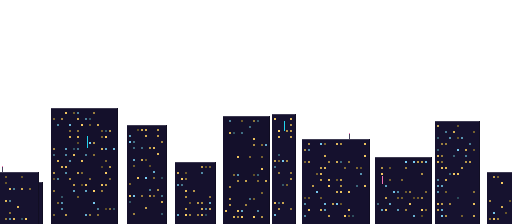
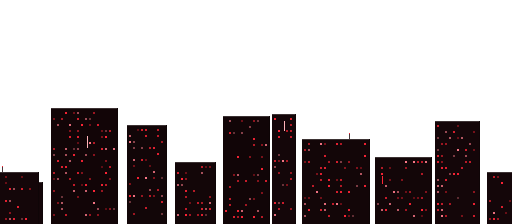
feat(theme): dark + neon-red theme across the whole game
The UI/HUD and world were blue/cyan. Now dark + neon red to match the hero:
- HUD HP bar, weapon-energy bar -> red gradient (was cyan/amber)
- Charge glow, muzzle, teleport halo, checkpoint burst, boss speech -> red
- All menu glows (title/select/companion/pause/boot) cyan -> neon red
- Stage accents: neon-city (cyan) & frost-lab (blue) -> red
- Companion ORION tint cyan -> red
- Tileset: ground/platform recolored dark metal with neon-red rivets/edge
- Stage backgrounds: neon-city & frost-lab -> dark night city with red neon
  (windows/signs red). Other stages keep their own palettes.
Regenerated assets via npm run assets.

diff --git a/src/scenes/GameScene.ts b/src/scenes/GameScene.ts
@@ -517,7 +517,7 @@ export class GameScene extends Phaser.Scene {
     this.hpBar.fillStyle(0x1a2030, 1).fillRoundedRect(x, y, w, h, 3)
     if (frac > 0) {
       const fw = Math.max(10, w * frac)
-      this.hpBar.fillGradientStyle(0x8df2ff, 0x35e0ff, 0x2b6bcb, 0x1d3f8f, 1)
+      this.hpBar.fillGradientStyle(0xff8a94, 0xff2436, 0xa11024, 0x6e0f16, 1)
       this.hpBar.fillRoundedRect(x, y, fw, h, 4)
       this.hpBar.fillStyle(0xffffff, 0.28).fillRoundedRect(x + 1, y + 1, Math.max(2, fw - 2), 2, 1)
     }
@@ -534,7 +534,7 @@ export class GameScene extends Phaser.Scene {
     this.weBar.fillStyle(0x0a0d16, 0.75).fillRoundedRect(x - 2, y - 2, w + 4, h + 4, 3)
     this.weBar.fillStyle(0x1a2030, 1).fillRect(x, y, w, h)
     if (frac > 0) {
-      this.weBar.fillGradientStyle(0xffc857, 0xff9a3c, 0xb87808, 0x8a5a06, 1)
+      this.weBar.fillGradientStyle(0xff8a94, 0xff2436, 0xa11024, 0x6e0f16, 1)
       this.weBar.fillRect(x, y, Math.max(2, w * frac), h)
     }
     this.weBar.fillStyle(0x0a0d16, 0.5)
@@ -598,7 +598,7 @@ export class GameScene extends Phaser.Scene {
   /** One-frame muzzle flash at the buster tip. */
   spawnMuzzleFlash(x: number, y: number, scale = 0.1, flame = false) {
     const halo = this.add.image(x, y, 'glow')
-      .setTint(flame ? 0xffb37a : 0x9df2ff).setBlendMode(Phaser.BlendModes.ADD).setScale(scale).setDepth(50)
+      .setTint(flame ? 0xffb37a : 0xffb3b8).setBlendMode(Phaser.BlendModes.ADD).setScale(scale).setDepth(50)
     const core = this.add.circle(x, y, 1.5 + scale * 8, 0xffffff).setBlendMode(Phaser.BlendModes.ADD).setDepth(51)
     this.tweens.add({
       targets: [halo, core], alpha: 0, scale: 1.9, duration: 80,
@@ -612,7 +612,7 @@ export class GameScene extends Phaser.Scene {
     // se lisait comme une barre cyan/verte sur le héros).
     const beam = this.add.image(x, y, 'glow')
       .setBlendMode(Phaser.BlendModes.ADD).setDepth(38)
-      .setTint(0x9df2ff).setScale(0.85, 1.5).setAlpha(0)
+      .setTint(0xffb3b8).setScale(0.85, 1.5).setAlpha(0)
     this.tweens.add({
       targets: beam, alpha: { from: 0.45, to: 0 }, scale: 1.3, duration: 380,
       ease: 'Cubic.Out', onComplete: () => beam.destroy(),
@@ -624,7 +624,7 @@ export class GameScene extends Phaser.Scene {
       angle: { min: 250, max: 290 },
       scale: { start: 0.09, end: 0 },
       lifespan: 540,
-      tint: [0x9df2ff, 0xffffff, 0x35e0ff],
+      tint: [0xffb3b8, 0xffffff, 0xff2436],
       blendMode: Phaser.BlendModes.ADD,
       emitting: false,
     })
@@ -632,7 +632,7 @@ export class GameScene extends Phaser.Scene {
     this.time.delayedCall(620, () => p.destroy())
 
     // Onde d'apparition circulaire.
-    const ring = this.add.circle(x, y, 4).setStrokeStyle(2, 0x9df2ff, 1)
+    const ring = this.add.circle(x, y, 4).setStrokeStyle(2, 0xffb3b8, 1)
     this.tweens.add({
       targets: ring, radius: 32, alpha: 0, duration: 400,
       ease: 'Cubic.Out', onComplete: () => ring.destroy(),
@@ -756,9 +756,9 @@ export class GameScene extends Phaser.Scene {
   private showAllTargetsDown() {
     const { width } = this.cameras.main
     const t = this.add.text(width / 2, 76, 'ALL TARGETS DOWN', {
-      fontSize: '10px', color: '#9df2ff', fontFamily: 'monospace', fontStyle: 'bold', letterSpacing: 2,
+      fontSize: '10px', color: '#ffb3b8', fontFamily: 'monospace', fontStyle: 'bold', letterSpacing: 2,
     }).setOrigin(0.5).setScrollFactor(0).setDepth(300).setAlpha(0)
-    t.setShadow(0, 0, '#35e0ff', 6, true, true)
+    t.setShadow(0, 0, '#ff2436', 6, true, true)
     this.tweens.add({ targets: t, alpha: 1, duration: 350, yoyo: true, hold: 900,
       onComplete: () => t.destroy() })
   }
@@ -802,9 +802,9 @@ export class GameScene extends Phaser.Scene {
           img.setTint(0x7dfca2)
           sfx.checkpoint()
           void this.companionSay('checkpoint')
-          this.spawnCollectBurst(x, y - 8, 0x35e0ff)
+          this.spawnCollectBurst(x, y - 8, 0xff2436)
           const t = this.add.text(x, y - 34, 'CHECKPOINT', {
-            fontSize: '8px', color: '#9df2ff', fontFamily: 'monospace', fontStyle: 'bold', letterSpacing: 1,
+            fontSize: '8px', color: '#ffb3b8', fontFamily: 'monospace', fontStyle: 'bold', letterSpacing: 1,
           }).setOrigin(0.5).setDepth(120).setAlpha(0)
           this.tweens.add({ targets: t, alpha: 1, y: y - 40, duration: 500, ease: 'Cubic.Out',
             onComplete: () => this.tweens.add({ targets: t, alpha: 0, delay: 900, duration: 400, onComplete: () => t.destroy() }) })
@@ -935,7 +935,7 @@ export class GameScene extends Phaser.Scene {
     const strip = this.add.rectangle(width / 2, height - 22, width, 34, 0x05060c, 0)
       .setScrollFactor(0).setDepth(240)
     const t1 = this.add.text(width / 2, height - 32, `MISSION 01 — ${this.stage.name}`, {
-      fontSize: '8px', color: '#9df2ff', fontFamily: 'monospace', fontStyle: 'bold', letterSpacing: 1,
+      fontSize: '8px', color: '#ffb3b8', fontFamily: 'monospace', fontStyle: 'bold', letterSpacing: 1,
     }).setOrigin(0.5).setScrollFactor(0).setDepth(241).setAlpha(0)
     const t2 = this.add.text(width / 2, height - 18, 'Libérez le secteur. Détruisez le WAR MACHINE.', {
       fontSize: '8px', color: '#e2e8f0', fontFamily: 'monospace',
@@ -984,7 +984,7 @@ export class GameScene extends Phaser.Scene {
     const box = this.add.rectangle(96, height - 26, 168, 30, 0x06101c, 0.88)
       .setStrokeStyle(1.5, this.compData.bubble, 0.85)
     const tag = this.add.text(20, height - 46, this.compData.name, {
-      fontSize: '6px', color: '#9df2ff', fontFamily: 'monospace', fontStyle: 'bold', letterSpacing: 1,
+      fontSize: '6px', color: '#ffb3b8', fontFamily: 'monospace', fontStyle: 'bold', letterSpacing: 1,
     })
     const msg = this.add.text(96, height - 24, '', {
       fontSize: '8px', color: '#d5ecf8', fontFamily: 'monospace',

diff --git a/src/scenes/PauseScene.ts b/src/scenes/PauseScene.ts
@@ -39,9 +39,9 @@ export class PauseScene extends Phaser.Scene {
       .setStrokeStyle(1.5, 0x3a4358, 1).setDepth(1)
 
     const title = this.add.text(width / 2, height / 2 - 60, 'PAUSE', {
-      fontSize: '16px', color: '#9df2ff', fontFamily: 'monospace', fontStyle: 'bold', letterSpacing: 4,
+      fontSize: '16px', color: '#ffb3b8', fontFamily: 'monospace', fontStyle: 'bold', letterSpacing: 4,
     }).setOrigin(0.5).setDepth(2)
-    title.setShadow(0, 0, '#35e0ff', 8, true, true)
+    title.setShadow(0, 0, '#ff2436', 8, true, true)
 
     this.add.text(width / 2 - 84, height / 2 - 34, 'ARMES', {
       fontSize: '7px', color: '#5a6280', fontFamily: 'monospace', letterSpacing: 2,
@@ -91,14 +91,14 @@ export class PauseScene extends Phaser.Scene {
     // REPRENDRE : cliquable/tappable (et raccourcis clavier inchangés).
     const resumeText = this.add.text(width / 2, height / 2 + 62,
       isTouchUI() ? '▶ REPRENDRE   (◀▶ ARME · A/B ÉQUIPER · ⏸)' : '↑↓ : ARME     Z : ÉQUIPER     P : REPRENDRE', {
-      fontSize: '8px', color: isTouchUI() ? '#9df2ff' : '#5a6280',
+      fontSize: '8px', color: isTouchUI() ? '#ffb3b8' : '#5a6280',
       fontFamily: 'monospace', backgroundColor: isTouchUI() ? '#10141f' : undefined,
       padding: isTouchUI() ? { x: 6, y: 3 } : {},
     }).setOrigin(0.5).setDepth(2)
     resumeText.setInteractive({ useHandCursor: true })
     resumeText.on('pointerdown', () => this.doResume())
 
-    this.cursor = this.add.triangle(width / 2 - 72, height / 2 - 14, 0, 3, 0, 9, 7, 6, 0x9df2ff).setDepth(2)
+    this.cursor = this.add.triangle(width / 2 - 72, height / 2 - 14, 0, 3, 0, 9, 7, 6, 0xffb3b8).setDepth(2)
 
     const resume = () => this.doResume()
     this.input.keyboard!.on('keydown-P', resume)

diff --git a/src/scenes/StageSelectScene.ts b/src/scenes/StageSelectScene.ts
@@ -47,7 +47,7 @@ export class StageSelectScene extends Phaser.Scene {
       fontSize: '14px', color: '#e2e8f0', fontFamily: 'monospace', fontStyle: 'bold', letterSpacing: 6,
     }).setOrigin(0.5)
     header.setStroke('#0a0512', 3)
-    header.setShadow(0, 0, '#35e0ff', 6, true, true)
+    header.setShadow(0, 0, '#ff2436', 6, true, true)
 
     // Layout cards in one row, centered
     const total = STAGES.length
@@ -91,7 +91,7 @@ export class StageSelectScene extends Phaser.Scene {
     this.nameText = this.add.text(width / 2, height * 0.72, STAGES[this.selected].name, {
       fontSize: '11px', color: '#e2e8f0', fontFamily: 'monospace', fontStyle: 'bold', letterSpacing: 6,
     }).setOrigin(0.5)
-    this.nameText.setShadow(0, 0, '#35e0ff', 6, true, true)
+    this.nameText.setShadow(0, 0, '#ff2436', 6, true, true)
 
     this.descText = this.add.text(width / 2, height * 0.72 + 16, '', {
       fontSize: '8px', color: '#8b93a8', fontFamily: 'monospace', fontStyle: 'italic',

diff --git a/src/scenes/TitleScene.ts b/src/scenes/TitleScene.ts
@@ -35,7 +35,7 @@ export class TitleScene extends Phaser.Scene {
       fontStyle: 'bold',
     }).setOrigin(0.5)
     title.setStroke('#0a0512', 4)
-    title.setShadow(0, 0, '#35e0ff', 10, true, true)
+    title.setShadow(0, 0, '#ff2436', 10, true, true)
     this.tweens.add({
       targets: title,
       alpha: { from: 0, to: 1 },
@@ -58,7 +58,7 @@ export class TitleScene extends Phaser.Scene {
       fontFamily: 'monospace',
       letterSpacing: 3,
     }).setOrigin(0.5)
-    prompt.setShadow(0, 0, '#35e0ff', 5, true, true)
+    prompt.setShadow(0, 0, '#ff2436', 5, true, true)
     this.tweens.add({ targets: prompt, alpha: { from: 1, to: 0.15 }, duration: 700, yoyo: true, repeat: -1 })
     void subtitle
 

diff --git a/src/entities/Player.ts b/src/entities/Player.ts
@@ -239,10 +239,10 @@ export class Player extends Phaser.Physics.Arcade.Sprite {
     if (level >= 2) {
       const cycle = this.powerUp
         ? [0xff6b5e, 0xffd166, 0xffffff]
-        : [0xffffff, 0xffd166, 0x66f0ff]
+        : [0xffffff, 0xffd166, 0xff6b5e]
       tint = cycle[Math.floor(this.scene.time.now / 90) % 3]
     } else {
-      tint = level === 1 ? 0x66f0ff : 0x35e0ff
+      tint = level === 1 ? 0xff6b5e : 0xff2436
     }
     this.chargeGlow.setTint(tint)
     this.chargeHalo.setTint(tint)

diff --git a/src/stages.ts b/src/stages.ts
@@ -17,7 +17,7 @@ export const STAGES: StageDef[] = [
     name: 'NEON CITY',
     skyTop: 0x2b1e4e, skyBottom: 0x0d0e15,
     farColor: 0x241d3f, midColor: 0x191530,
-    accent: 0x34d2ee,
+    accent: 0xff2436,
   },
   {
     id: 'toxic-plant',
@@ -38,7 +38,7 @@ export const STAGES: StageDef[] = [
     name: 'FROST LAB',
     skyTop: 0x14325e, skyBottom: 0x071222,
     farColor: 0x102540, midColor: 0x0a1a2e,
-    accent: 0x93c5fd,
+    accent: 0xff7a8a,
   },
   {
     id: 'sky-fortress',

diff --git a/src/scenes/CompanionScene.ts b/src/scenes/CompanionScene.ts
@@ -38,7 +38,7 @@ export class CompanionScene extends Phaser.Scene {
       fontSize: '13px', color: '#e2e8f0', fontFamily: 'monospace', fontStyle: 'bold', letterSpacing: 2,
     }).setOrigin(0.5)
     header.setStroke('#0a0512', 3)
-    header.setShadow(0, 0, '#35e0ff', 6, true, true)
+    header.setShadow(0, 0, '#ff2436', 6, true, true)
 
     const total = COMPANIONS.length
     const cardW = 60, gap = 14

diff --git a/src/companions.ts b/src/companions.ts
@@ -16,8 +16,8 @@ export const COMPANIONS: CompanionDef[] = [
     id: 'orion',
     name: 'ORION',
     texture: 'comp-orion',
-    tint: 0x35e0ff,
-    bubble: 0x35e0ff,
+    tint: 0xff2436,
+    bubble: 0xff2436,
     tagline: 'Éclaireur fidèle',
     persona: 'Tu es ORION, un drone éclaireur loyal et espiègle qui accompagne BLASTER-01 dans Néon City.',
     lines: {

diff --git a/src/scenes/BootScene.ts b/src/scenes/BootScene.ts
@@ -29,7 +29,7 @@ export class BootScene extends Phaser.Scene {
       fontStyle: 'bold',
       letterSpacing: 2,
     }).setOrigin(0.5)
-    studio.setShadow(0, 0, '#35e0ff', 9, true, true)
+    studio.setShadow(0, 0, '#ff2436', 9, true, true)
 
     const presents = this.add.text(width / 2, height / 2 + 14, 'p r e s e n t s', {
       fontSize: '8px',
